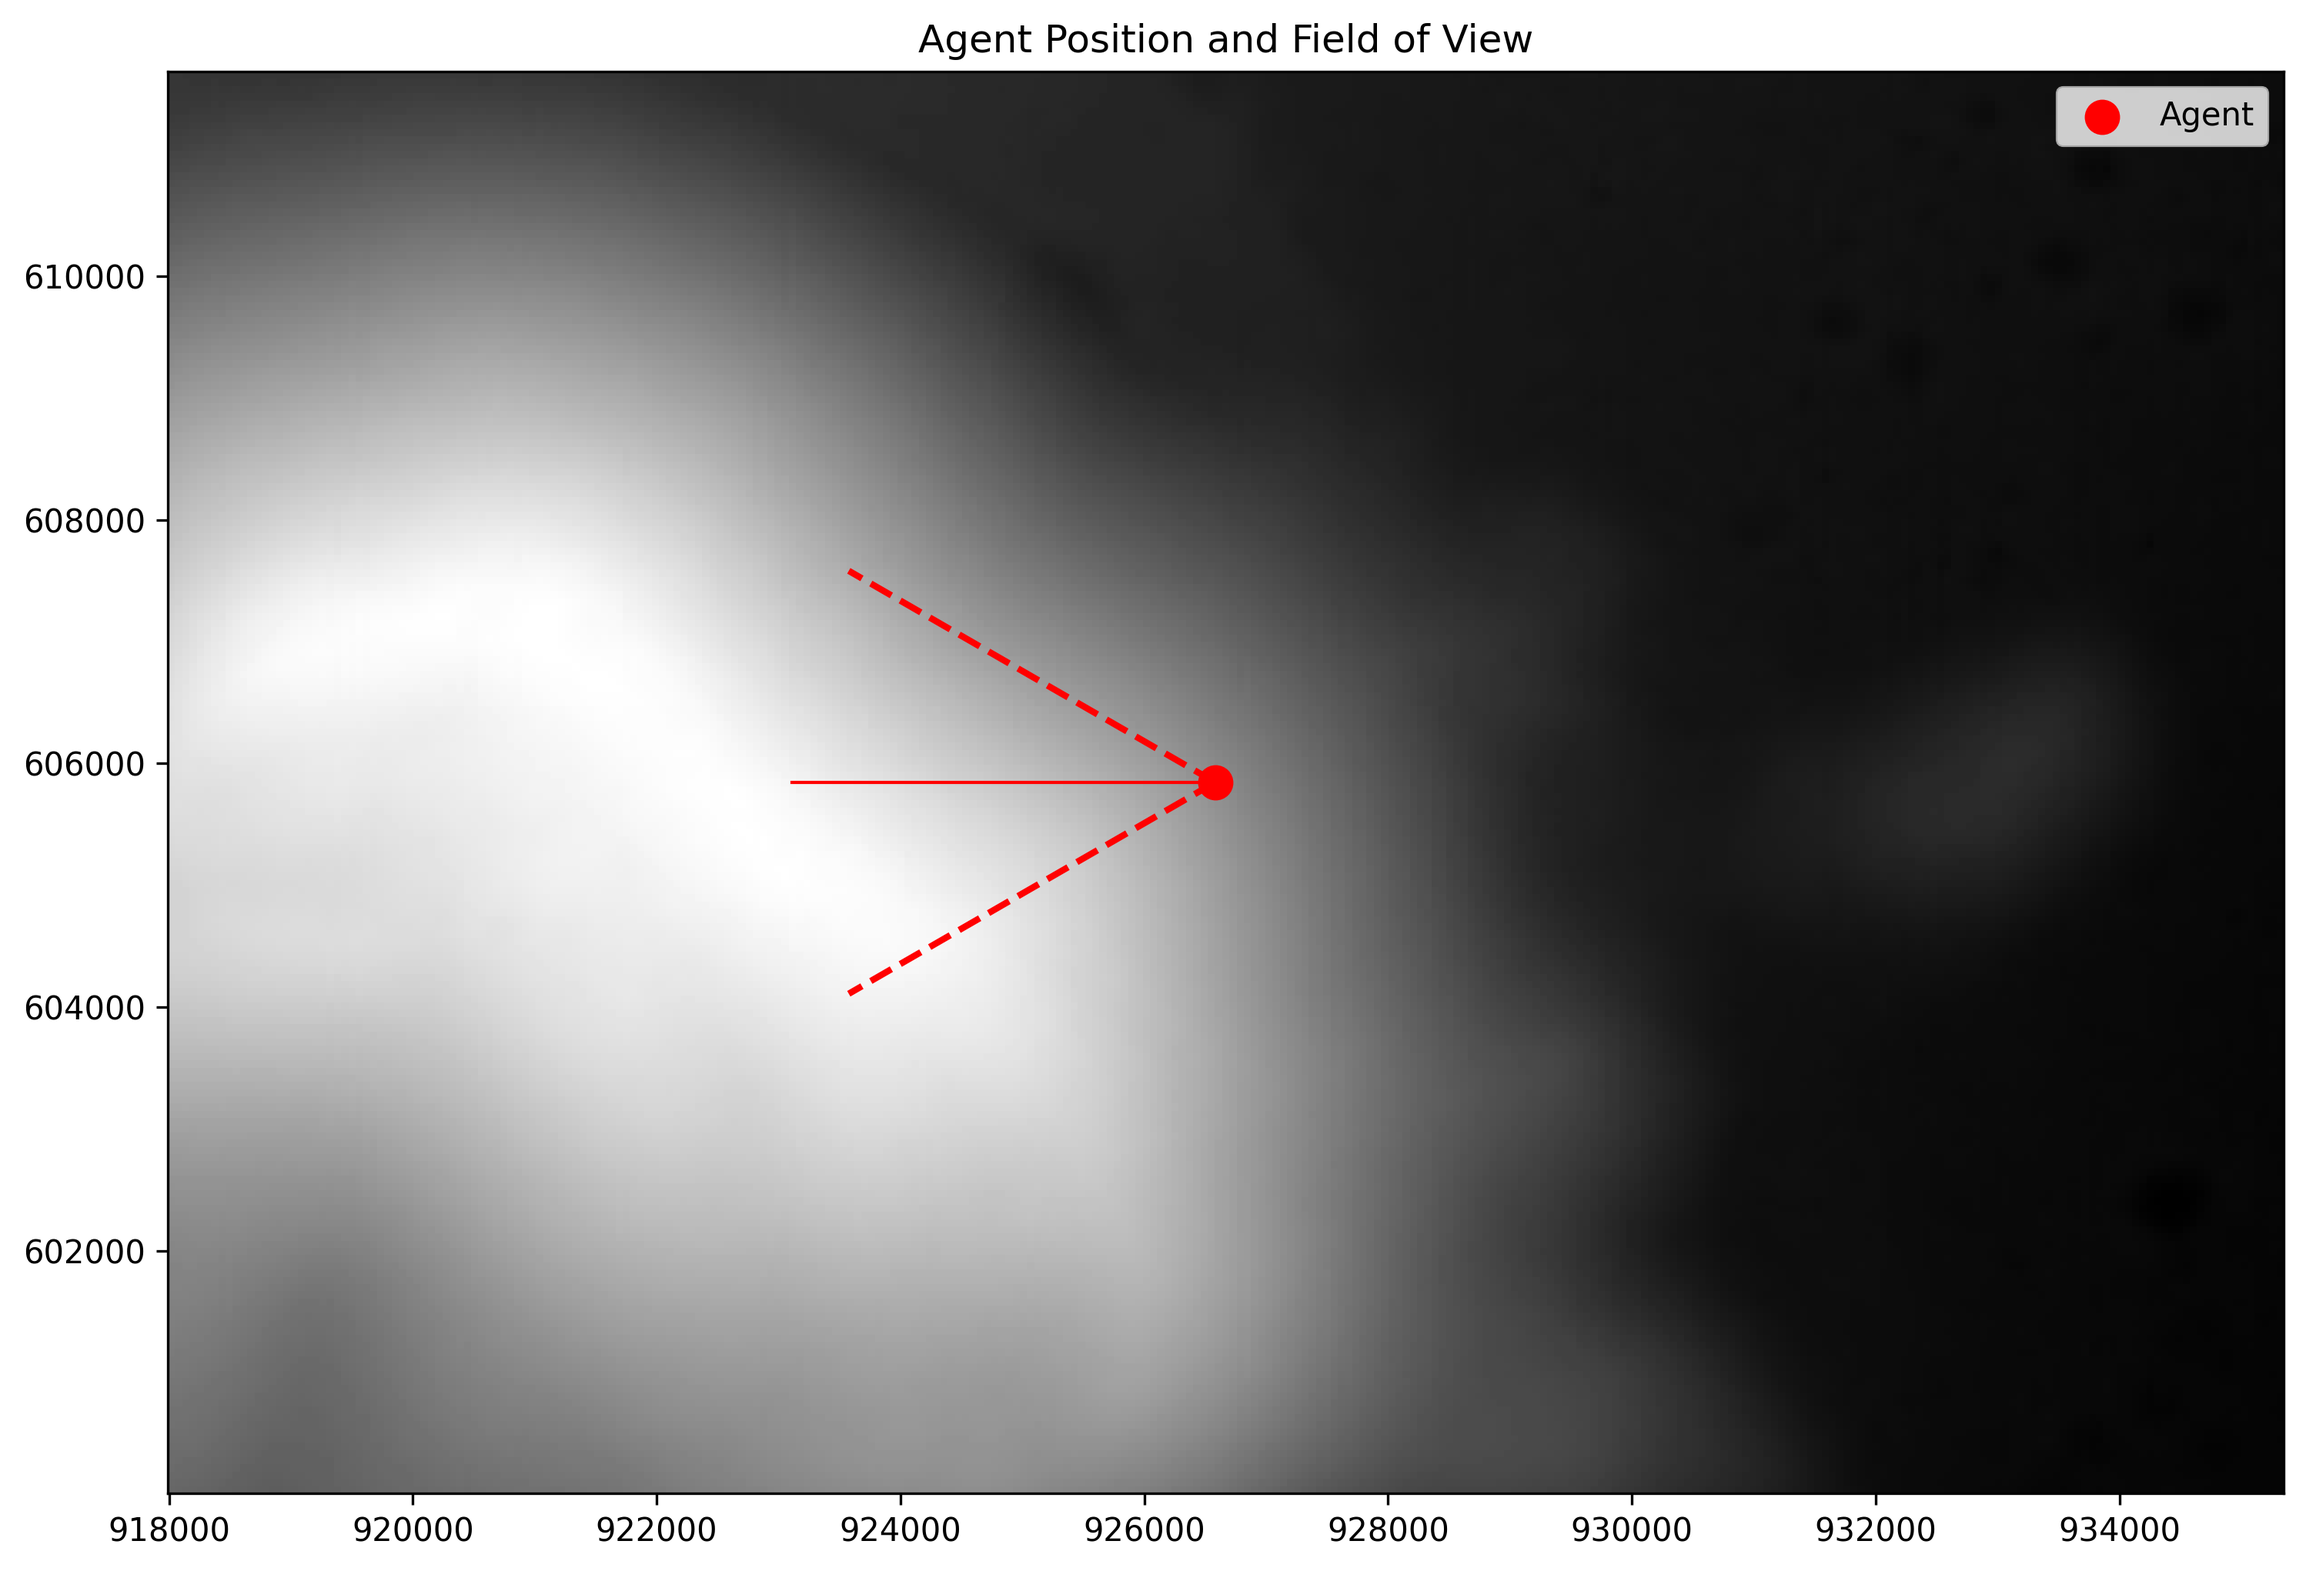
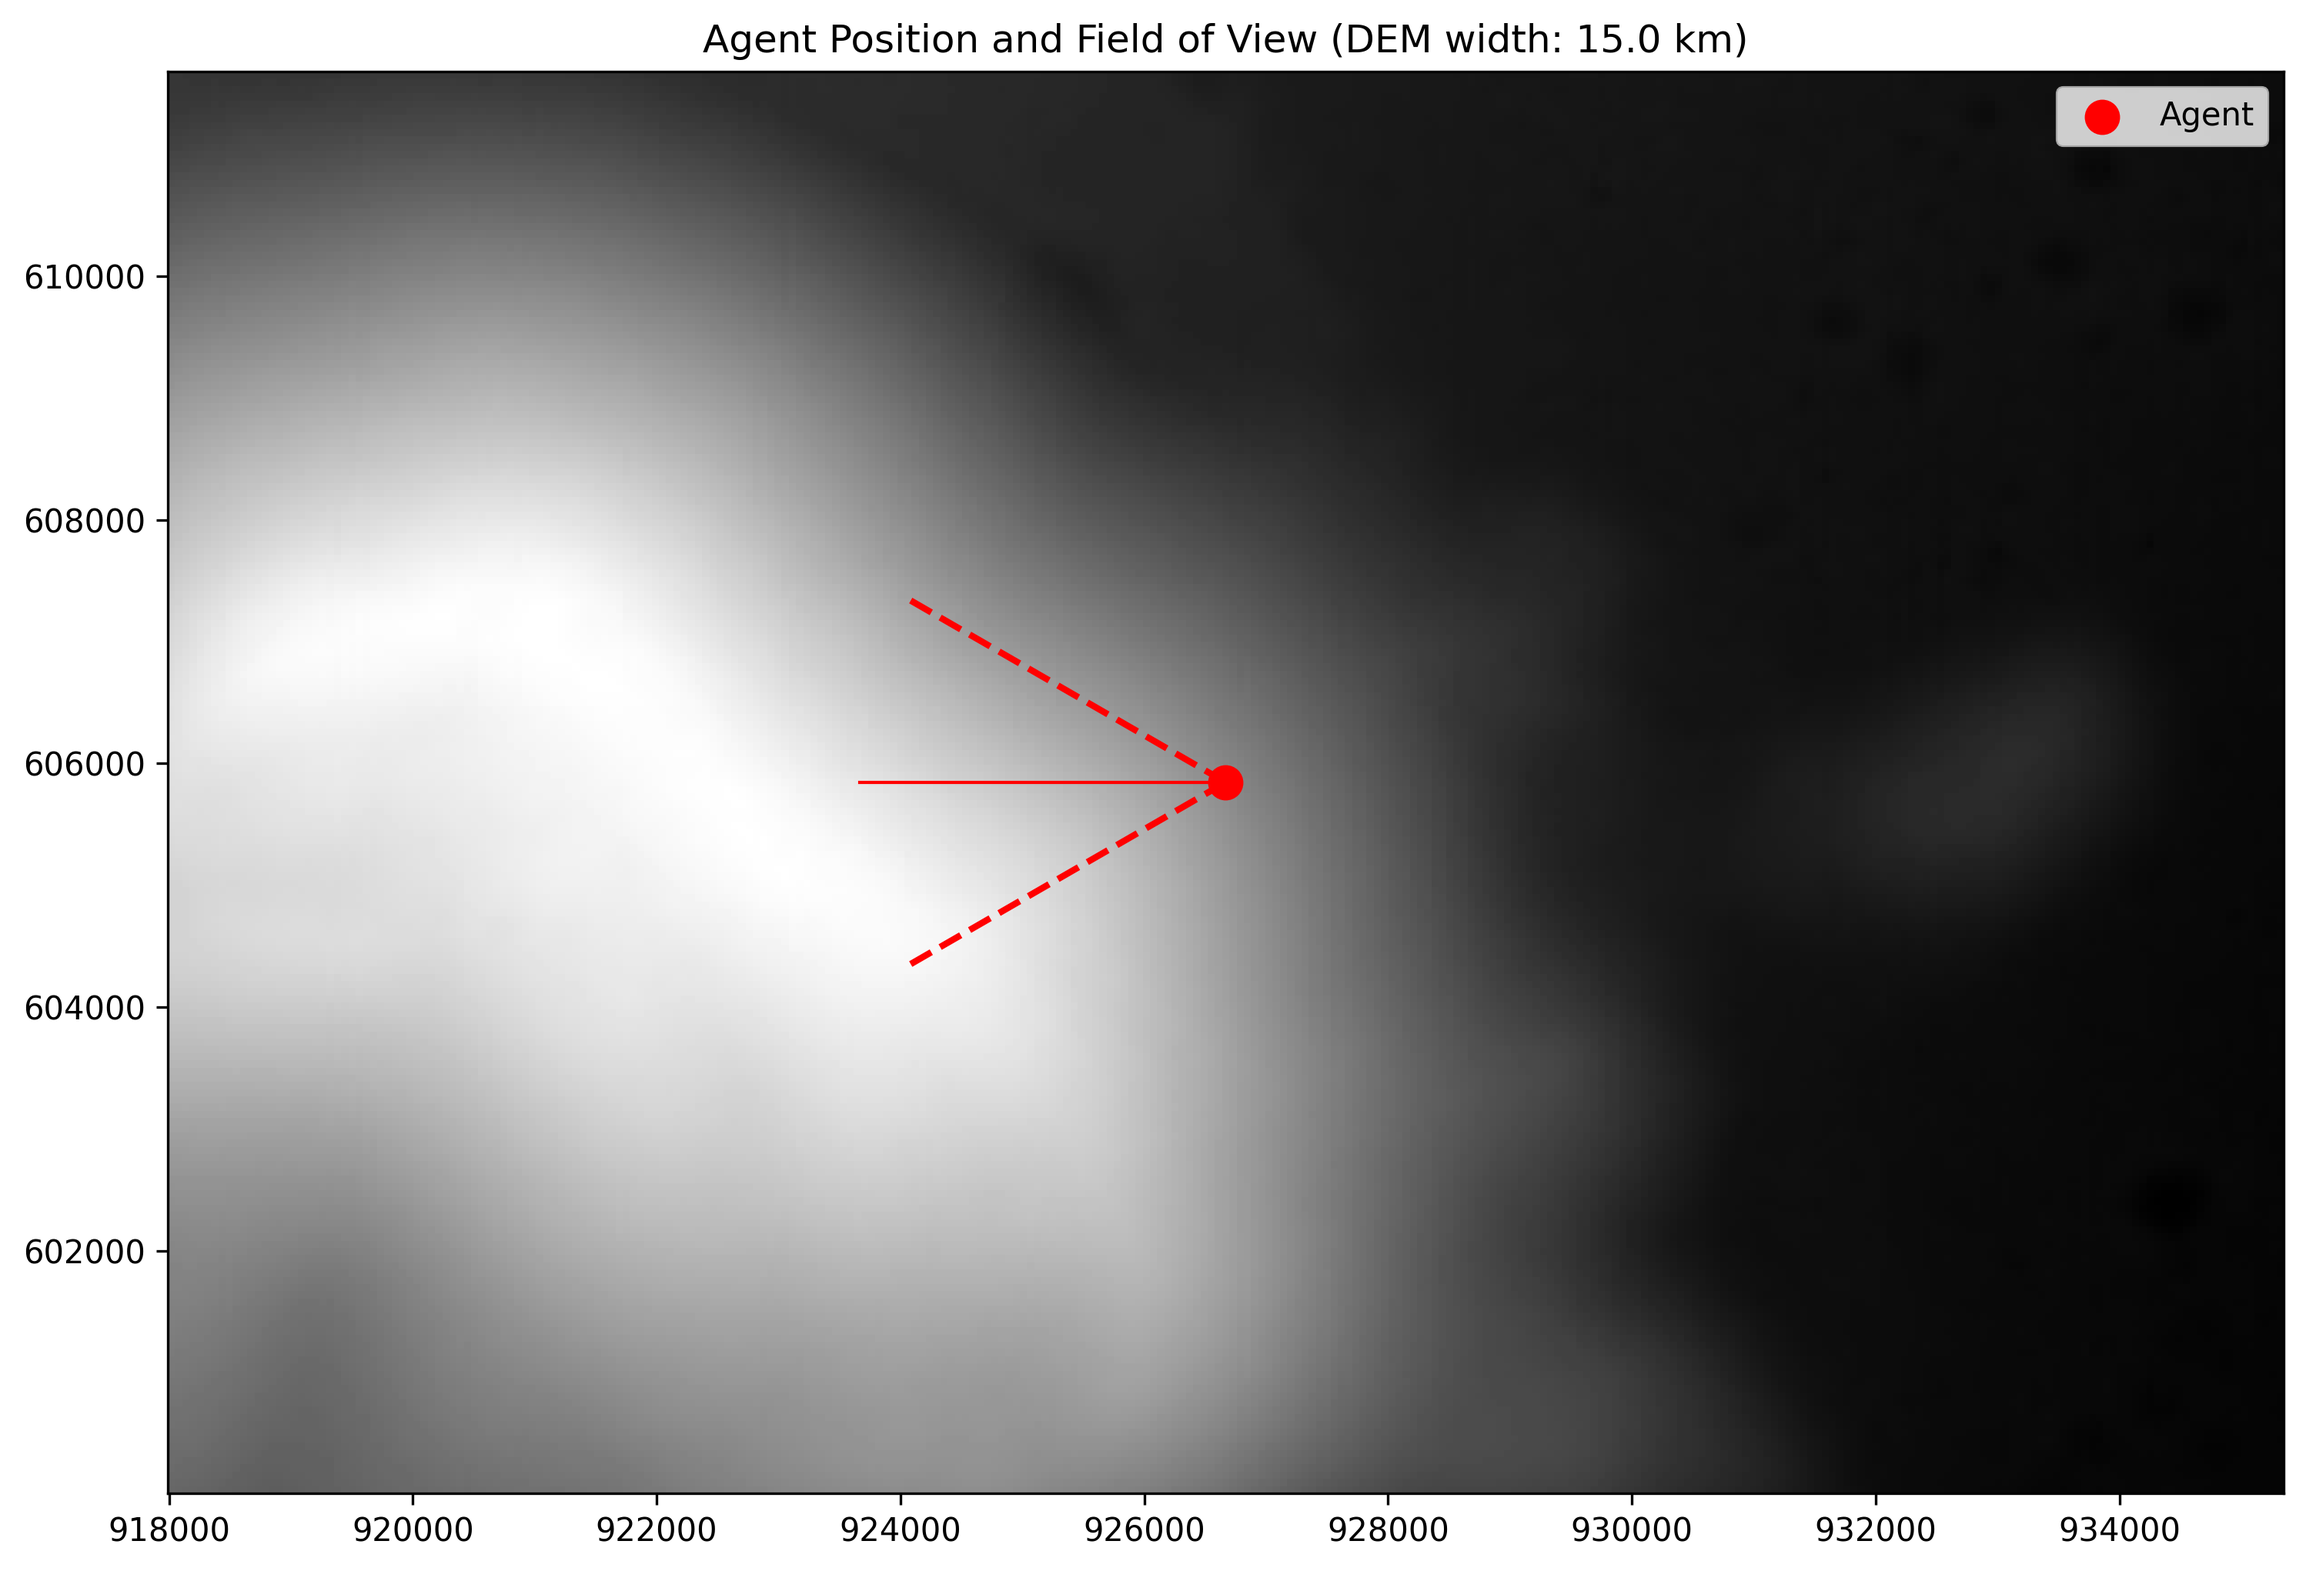
added world scale from specified km length

diff --git a/generate_horizon_images.py b/generate_horizon_images.py
@@ -9,7 +9,7 @@ import open3d as o3d
 import matplotlib.pyplot as plt
 import os
 
-def generate_horizon_views(mesh, num_views=8):
+def generate_horizon_views(mesh, dem_length_km, num_views=8):
     print("\n=== Generating Horizon Views ===")
     
     # Get mesh bounds
@@ -17,19 +17,19 @@ def generate_horizon_views(mesh, num_views=8):
     center = bbox.get_center()
     bbox_size = bbox.get_max_bound() - bbox.get_min_bound()
     
-    # Calculate observer parameters
-    ground_height = bbox.get_min_bound()[2] + 5.0
-    observer_radius = 5.0
-    look_distance = max(bbox_size[0], bbox_size[1]) * 0.6
+    # Calculate observer parameters (in km)
+    ground_height = bbox.get_min_bound()[2] + 0.001  # 1m above ground
+    observer_radius = 0.05  # Fixed 50m radius
+    look_distance = dem_length_km * 0.6  # Scale look distance based on DEM size
     
     print(f"Observer setup:")
     print(f"Ground height: {ground_height:.2f}")
-    print(f"Observer radius: {observer_radius:.2f}")
-    print(f"Look distance: {look_distance:.2f}")
+    print(f"Observer radius: {observer_radius:.2f} km")
+    print(f"Look distance: {look_distance:.2f} km")
     
     images = []
-    positions = []  # Store observer positions
-    targets = []    # Store look targets
+    positions = []
+    targets = []
     
     for i in range(num_views):
         angle = (2 * np.pi * i) / num_views
@@ -45,7 +45,7 @@ def generate_horizon_views(mesh, num_views=8):
         look_target = np.array([
             center[0] + look_distance * np.cos(angle),
             center[1] + look_distance * np.sin(angle),
-            ground_height + look_distance * 0.05
+            ground_height + look_distance * 0.05  # Slight upward angle
         ])
         
         print(f"\nProcessing view {i+1}/{num_views}")
@@ -53,7 +53,8 @@ def generate_horizon_views(mesh, num_views=8):
         print(f"Looking towards: {look_target}")
         
         try:
-            image = render_scene(mesh, observer_position, look_target)
+            # Pass dem_length_km to render_scene
+            image = render_scene(mesh, observer_position, look_target, dem_length_km)
             print(f"Successfully rendered view {i+1}")
             images.append(image)
             positions.append(observer_position)
@@ -80,7 +81,7 @@ def save_image(image, filename):
         print(f"Error saving image: {str(e)}")
         return False
 
-def draw_agent_on_dem(dem_data, transform, observer_position, look_target, filename):
+def draw_agent_on_dem(dem_data, transform, observer_position, look_target, filename, dem_length_km):
     print(f"\nDrawing agent on DEM for {filename}")
     try:
         fig, ax = plt.subplots(figsize=(12, 8))
@@ -103,6 +104,7 @@ def draw_agent_on_dem(dem_data, transform, observer_position, look_target, filen
         real_target_y = transform[5] + (1 - look_target[1] / 1000.0) * transform[4] * dem_data.shape[0]
         
         # Debug prints
+        print(f"DEM length: {dem_length_km} km")
         print(f"Normalized observer position: ({observer_position[0]:.2f}, {observer_position[1]:.2f})")
         print(f"Real-world observer position: ({real_observer_x:.2f}, {real_observer_y:.2f})")
         
@@ -117,7 +119,7 @@ def draw_agent_on_dem(dem_data, transform, observer_position, look_target, filen
         
         if direction_norm > 0:
             direction = direction / direction_norm
-            fov_distance = (extent[1] - extent[0]) * 0.2  # 20% of DEM width
+            fov_distance = dem_length_km * 1000 * 0.2  # 20% of DEM width in meters
             fov_angle = np.pi / 6  # 30 degrees
             
             # Calculate FOV lines
@@ -146,7 +148,7 @@ def draw_agent_on_dem(dem_data, transform, observer_position, look_target, filen
         
         # Add legend and title
         ax.legend()
-        ax.set_title('Agent Position and Field of View')
+        ax.set_title(f'Agent Position and Field of View (DEM width: {dem_length_km} km)')
         
         # Ensure proper axis limits
         ax.set_xlim(extent[0], extent[1])
@@ -165,6 +167,9 @@ def draw_agent_on_dem(dem_data, transform, observer_position, look_target, filen
 
 def main():
     try:
+        # Specify the real-world horizontal length of the DEM in kilometers
+        dem_length_km = 15.0  # Length of the DEM in kilometers
+        
         # Create output directories
         output_dir = 'horizon_views'
         views_with_agents_dir = 'views_with_agents'
@@ -181,6 +186,7 @@ def main():
             transform = dem_dataset.transform
             print(f"DEM data shape: {dem_data.shape}")
             print(f"DEM elevation range: {dem_data.min():.2f} to {dem_data.max():.2f}")
+            print(f"DEM horizontal length: {dem_length_km} km")
 
         # Create and process mesh
         print("\nCreating mesh...")
@@ -197,7 +203,7 @@ def main():
             
         # Generate views
         print("\nGenerating views...")
-        images, positions, targets = generate_horizon_views(mesh)
+        images, positions, targets = generate_horizon_views(mesh, dem_length_km)
         
         if not images:
             raise ValueError("No images were generated")
@@ -211,7 +217,7 @@ def main():
             
             # Create agent view
             agent_file = f'agent_view_{i+1}.png'
-            draw_agent_on_dem(dem_data, transform, pos, target, agent_file)
+            draw_agent_on_dem(dem_data, transform, pos, target, agent_file, dem_length_km)
 
     except Exception as e:
         print(f"\nAn error occurred: {str(e)}")

diff --git a/render_scene.py b/render_scene.py
@@ -4,7 +4,7 @@ import numpy as np
 import pyrender
 import trimesh
 
-def render_scene(mesh, rover_position, camera_target, image_width=1024, image_height=768):
+def render_scene(mesh, rover_position, camera_target, dem_length_km, image_width=1024, image_height=768):
     print("\n=== Setting up Pyrender Scene ===")
     
     try:
@@ -26,12 +26,12 @@ def render_scene(mesh, rover_position, camera_target, image_width=1024, image_he
         scene.add(mesh)
         
         # Calculate camera parameters
-        camera = pyrender.PerspectiveCamera(
-            yfov=np.pi/4.0,  # Reduced FOV for less distortion
-            aspectRatio=float(image_width)/float(image_height),
-            znear=0.1,  # Increased near plane to avoid clipping
-            zfar=1000.0  # Increased far plane for better horizon view
-        )
+        yfov = np.pi / 3.0  # Field of view
+        aspect_ratio = float(image_width) / float(image_height)
+        znear = 0.1  # Near clipping plane
+        zfar = dem_length_km * 1000  # Far clipping plane based on DEM size
+        
+        camera = pyrender.PerspectiveCamera(yfov=yfov, aspectRatio=aspect_ratio, znear=znear, zfar=zfar)
         
         # Set up camera pose
         look_dir = camera_target - rover_position

diff --git a/dem_to_mesh.py b/dem_to_mesh.py
@@ -4,7 +4,7 @@ import numpy as np
 import open3d as o3d
 import rasterio
 
-def create_mesh_from_dem(dem_data, transform, downsample_factor=4):
+def create_mesh_from_dem(dem_data, transform, downsample_factor=2):
     print("\n=== DEM to Mesh Conversion ===")
     print(f"Input DEM shape: {dem_data.shape}")
     print(f"Downsample factor: {downsample_factor}")
